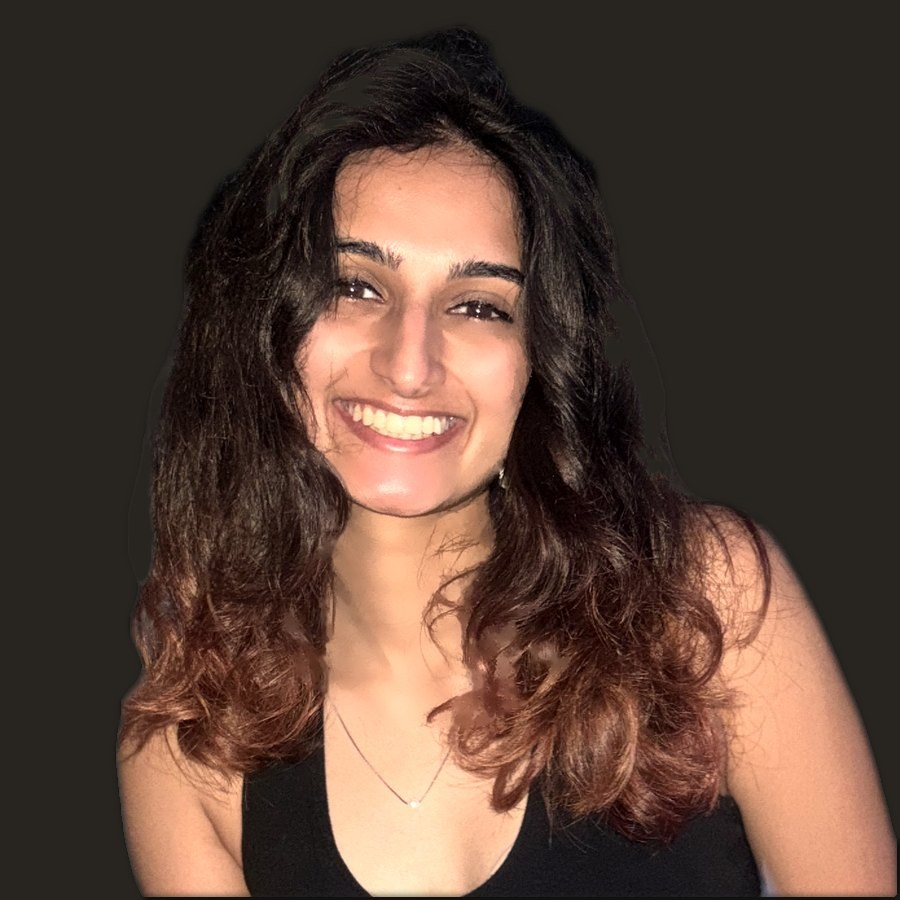
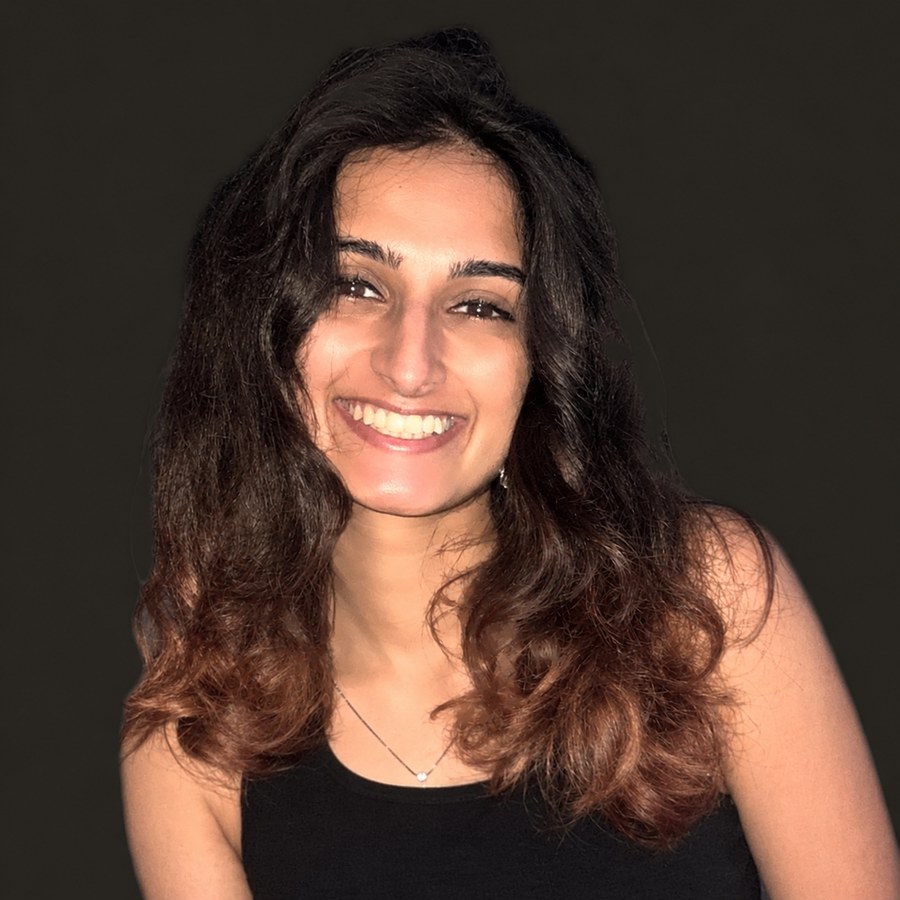
Warm up the footer sun and swap in the new photo
- Dark mode keeps the butter sun with a soft glow, and its contents use dark ink
- The footer heading now sits wholly on the sun in both themes
- The sunrise is slower, finishing as the page reaches the bottom
- New intro photo

diff --git a/styles.css b/styles.css
@@ -1,12 +1,15 @@
 body{margin:0}
 .t6y{--bg:#FFFBEF;--ink:#211E16;--soft:#6A6250;--acc:#F6E3A1;--acct:#8A6100;--tint:#FBF1CC;--onacc:#4A4332;--line:rgba(33,30,22,0.15);--card:#FFFFFF;--side:clamp(24px,20vw,400px);--sun:var(--acc);--fill:var(--acc);--hl:var(--acc)}
 /* ---------- dark mode: the same brand at night ----------
-   ink and cream swap, butter and gold stay; the footer sun becomes a soft moon and the Services flood a warm brown */
+   ink and cream swap, butter and gold stay; the footer sun stays butter and the Services flood a warm brown */
 html{background:#FFFBEF}
 html[data-theme="dark"]{background:#17140F;color-scheme:dark}
 html[data-theme="dark"] .t6y{--bg:#17140F;--ink:#F5EEDC;--soft:#B5AA91;--acct:#E3C46F;--tint:#2A2418;--onacc:#C9BDA0;--line:rgba(245,238,220,0.14);--card:#221E17;--sun:#2A2519;--fill:#241F16;--hl:rgba(246,227,161,0.22)}
 html[data-theme="dark"] #services{--line:rgba(245,238,220,0.2) !important}
-html[data-theme="dark"] .t6y-sun{box-shadow:0 0 140px 20px rgba(246,227,161,.10),inset 0 2px 0 rgba(246,227,161,.25)}
+/* footer: the same butter sun as light mode, rising into the night sky with a soft glow;
+   and everything on it switches back to dark ink */
+html[data-theme="dark"] .t6y-sunset{--bg:#FFFBEF;--ink:#211E16;--soft:#6A6250;--acct:#8A6100;--onacc:#4A4332;--line:rgba(33,30,22,0.15);--card:#FFFFFF;--sun:var(--acc);background:#17140F;color:var(--ink)}
+html[data-theme="dark"] .t6y-sun{box-shadow:0 0 90px 24px rgba(246,227,161,.25)}
 html[data-theme="dark"] .t6y-nav{background:rgba(23,20,15,.55);border-color:rgba(245,238,220,.12);box-shadow:0 10px 30px rgba(0,0,0,.3),inset 0 1px 0 rgba(245,238,220,.06)}
 @supports not ((backdrop-filter:blur(1px)) or (-webkit-backdrop-filter:blur(1px))){html[data-theme="dark"] .t6y-nav{background:rgba(23,20,15,.94)}}
 /* while switching, colours fade instead of snapping */
@@ -228,10 +231,12 @@ html[data-theme="dark"] .t6y-eye{transform:scaleY(.12)}
    so reduced motion and browsers without scroll timelines simply see it risen. */
 @keyframes t6y-live{0%,100%{box-shadow:0 0 0 0 rgba(62,142,79,.5)}50%{box-shadow:0 0 0 7px rgba(62,142,79,0)}}
 .t6y-live{animation:t6y-live 2s ease-out infinite}
-.t6y-sunset{position:relative;z-index:1;overflow:clip;view-timeline-name:--t6ysun;background:var(--bg);padding:18vh var(--side) 5vh}
+/* the heading starts below the sun's edge so it sits wholly on the sun, with a strip of sky above */
+.t6y-sunset{position:relative;z-index:1;overflow:clip;view-timeline-name:--t6ysun;background:var(--bg);min-height:100vh;box-sizing:border-box;padding:calc(18vh + clamp(70px,7vw,120px) + clamp(56px,6vw,96px)) var(--side) 5vh}
 .t6y-sun{position:absolute;left:50%;top:calc(18vh + clamp(70px,7vw,120px));width:max(150vw,1200px);aspect-ratio:1;margin-left:calc(max(150vw,1200px) / -2);border-radius:50%;background:var(--sun);
-  animation:t6y-sunrise cubic-bezier(.3,.6,.4,1) both;animation-timeline:--t6ysun;animation-range:entry 25% entry 100%}
-/* rises over the last stretch of scrolling, while the footer is actually on screen */
+  animation:t6y-sunrise cubic-bezier(.3,.6,.4,1) both;animation-timeline:--t6ysun;animation-range:entry 15% exit 0%}
+/* rises slowly over all the remaining scroll, finishing as the page reaches the bottom
+   (the footer is at least a screen tall, so the bottom of the page is exactly exit 0%) */
 @keyframes t6y-sunrise{from{transform:translateY(45vh)}}
 .t6y-suncontent{position:relative;display:flex;flex-direction:column;align-items:center;text-align:center}
 .t6y-suncontent h2{margin:0;max-width:16ch;font-family:Petrona,Fraunces,serif;font-weight:300;font-size:clamp(46px,6.6vw,104px);line-height:.98;letter-spacing:-.02em;text-wrap:balance}
